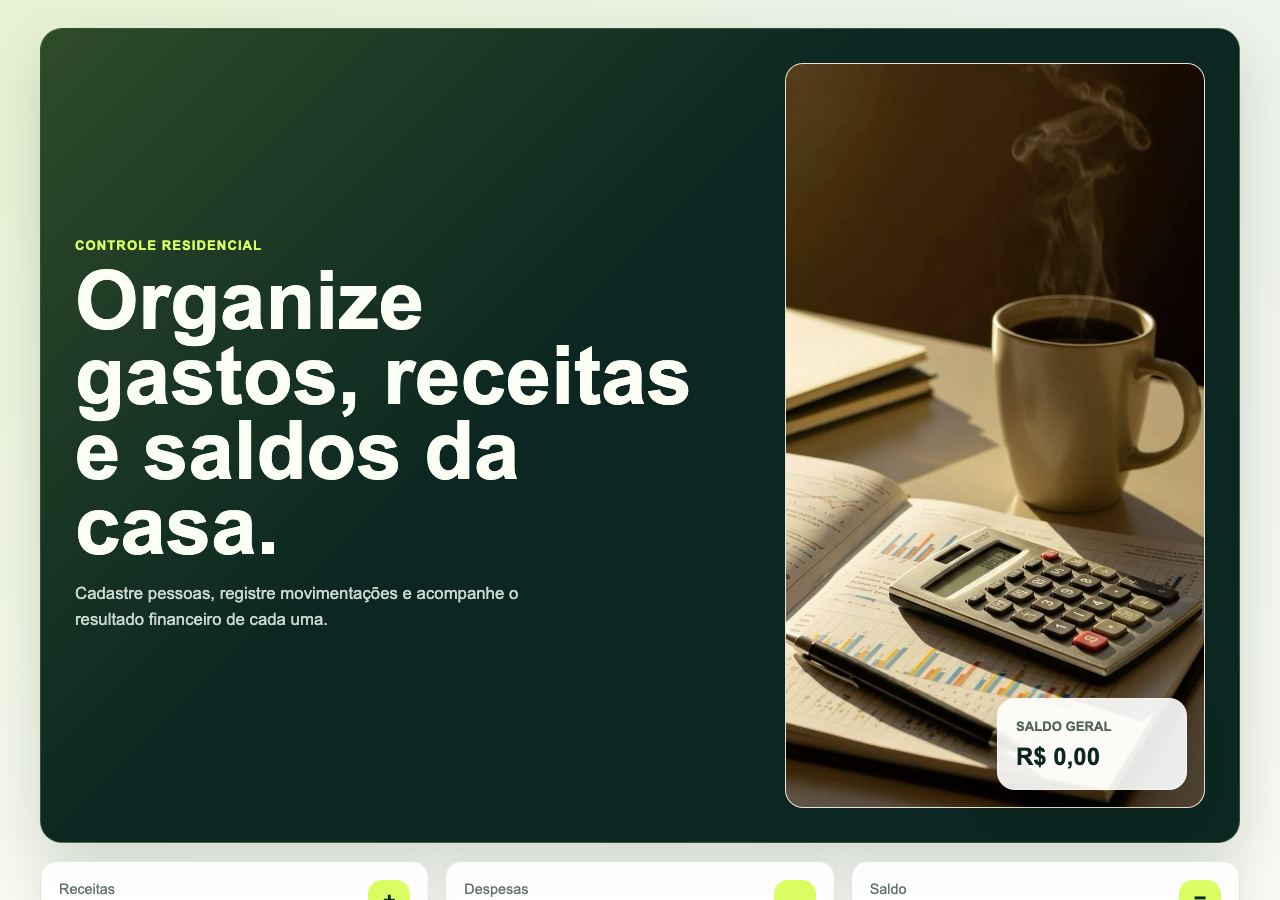
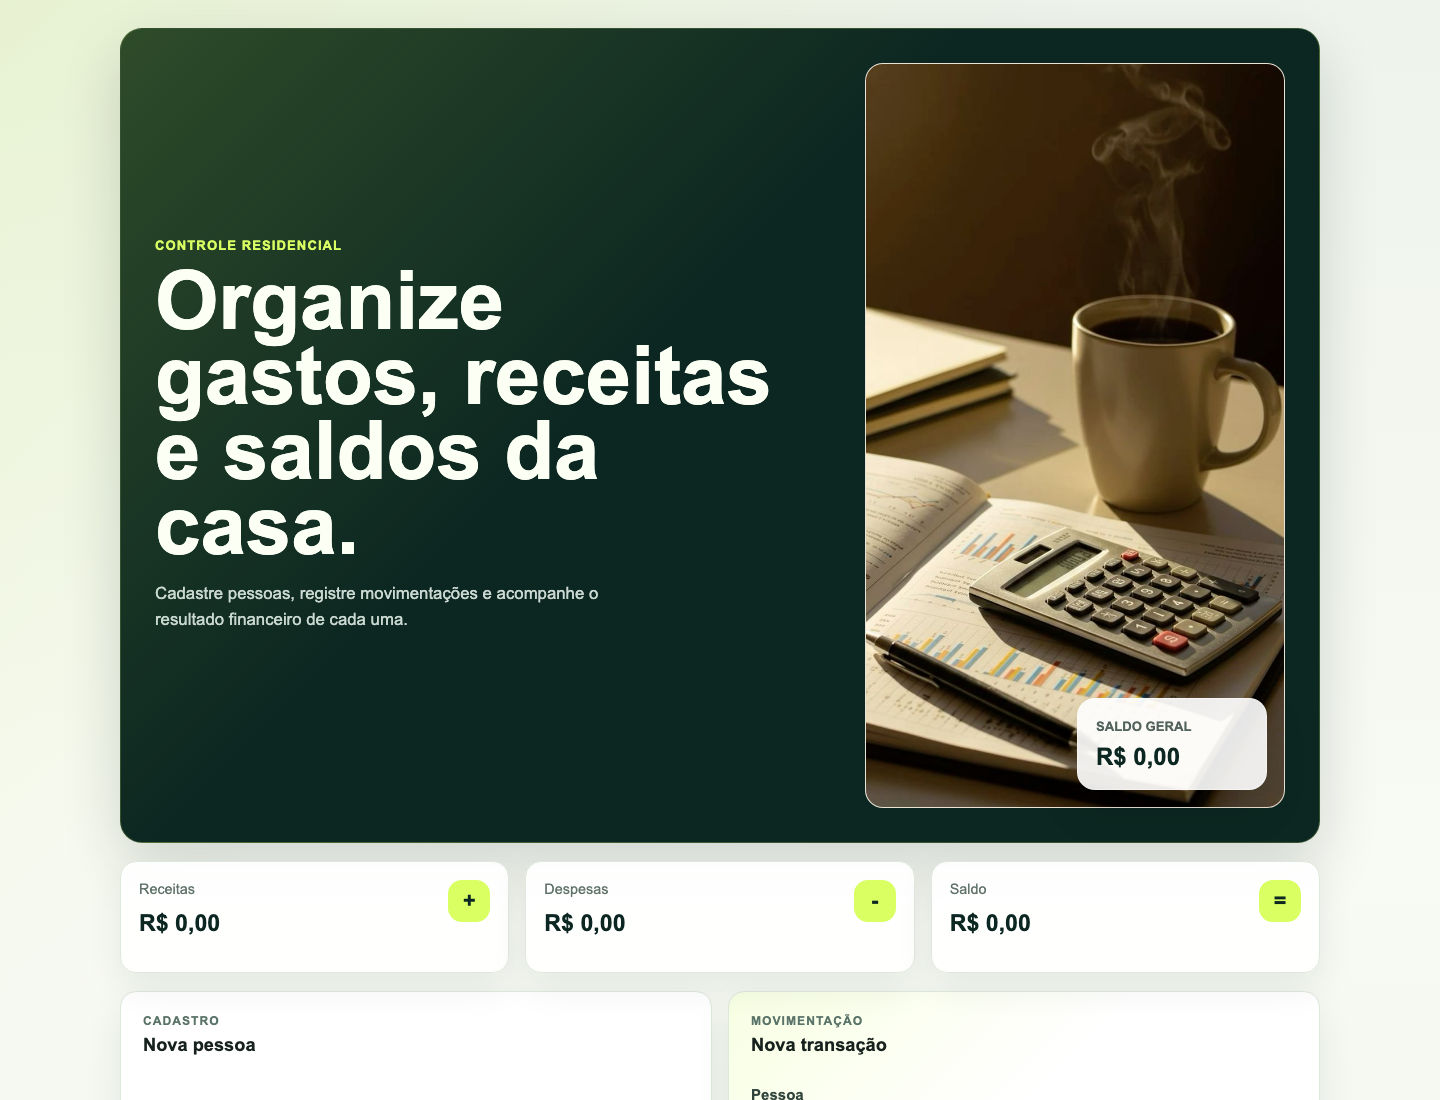
Ajusta campos e mensagens do formulario

diff --git a/frontend/src/main.tsx b/frontend/src/main.tsx
@@ -54,6 +54,22 @@ async function buscarJson<T>(url: string, valorPadrao: T) {
   return (await resposta.json()) as T;
 }
 
+async function lerMensagemErro(resposta: Response) {
+  const texto = await resposta.text();
+
+  try {
+    const conteudo = JSON.parse(texto);
+
+    if (typeof conteudo === "string") {
+      return conteudo;
+    }
+  } catch {
+    return texto;
+  }
+
+  return texto;
+}
+
 function App() {
   const [pessoas, setPessoas] = useState<Pessoa[]>([]);
   const [transacoes, setTransacoes] = useState<Transacao[]>([]);
@@ -97,6 +113,12 @@ function App() {
     return new Map(pessoas.map((pessoa) => [pessoa.id, pessoa]));
   }, [pessoas]);
 
+  function limparFormularioPessoa() {
+    setNome("");
+    setIdade("");
+    setPessoaEditando(null);
+  }
+
   async function salvarPessoa(evento: FormEvent) {
     evento.preventDefault();
     setMensagem("");
@@ -114,13 +136,11 @@ function App() {
       });
 
       if (!resposta.ok) {
-        setMensagem(await resposta.text());
+        setMensagem(await lerMensagemErro(resposta));
         return;
       }
 
-      setNome("");
-      setIdade("");
-      setPessoaEditando(null);
+      limparFormularioPessoa();
       await carregarDados();
     } catch {
       setMensagem("Não foi possível conectar ao back-end. Verifique se a API está em execução.");
@@ -168,7 +188,7 @@ function App() {
       });
 
       if (!resposta.ok) {
-        setMensagem(await resposta.text());
+        setMensagem(await lerMensagemErro(resposta));
         return;
       }
 
@@ -252,7 +272,7 @@ function App() {
           <div className="acoes">
             <button type="submit">{pessoaEditando ? "Salvar" : "Cadastrar"}</button>
             {pessoaEditando && (
-              <button type="button" className="secundario" onClick={() => setPessoaEditando(null)}>
+              <button type="button" className="secundario" onClick={limparFormularioPessoa}>
                 Cancelar
               </button>
             )}
@@ -318,7 +338,7 @@ function App() {
                   <strong>{pessoa.nome}</strong>
                   <span>{pessoa.idade} anos</span>
                 </div>
-                <div className="acoes">
+                <div className="acoes acoes-lista">
                   <button type="button" className="secundario" onClick={() => editarPessoa(pessoa)}>
                     Editar
                   </button>

diff --git a/frontend/src/styles.css b/frontend/src/styles.css
@@ -253,13 +253,24 @@ label {
 
 input,
 select {
+  box-sizing: border-box;
   width: 100%;
-  min-height: 46px;
+  height: 52px;
   border: 1px solid #d5e0d1;
   border-radius: 12px;
   padding: 10px 13px;
   background: #f9fbf6;
   color: #17211d;
+}
+
+select {
+  appearance: none;
+  background-image: linear-gradient(45deg, transparent 50%, #17211d 50%),
+    linear-gradient(135deg, #17211d 50%, transparent 50%);
+  background-position: calc(100% - 21px) 50%, calc(100% - 15px) 50%;
+  background-repeat: no-repeat;
+  background-size: 6px 6px;
+  padding-right: 42px;
 }
 
 input:focus,
@@ -293,6 +304,26 @@ button:hover {
 
 .perigo {
   background: #9f413a;
+}
+
+.acoes-lista {
+  gap: 8px;
+}
+
+.acoes-lista button {
+  min-height: 34px;
+  padding: 0 12px;
+  font-size: 0.86rem;
+}
+
+.acoes-lista .secundario:hover {
+  border-color: #b8cbb1;
+  background: #edf5e8;
+  color: #1e352d;
+}
+
+.acoes-lista .perigo:hover {
+  background: #873730;
 }
 
 .acoes,